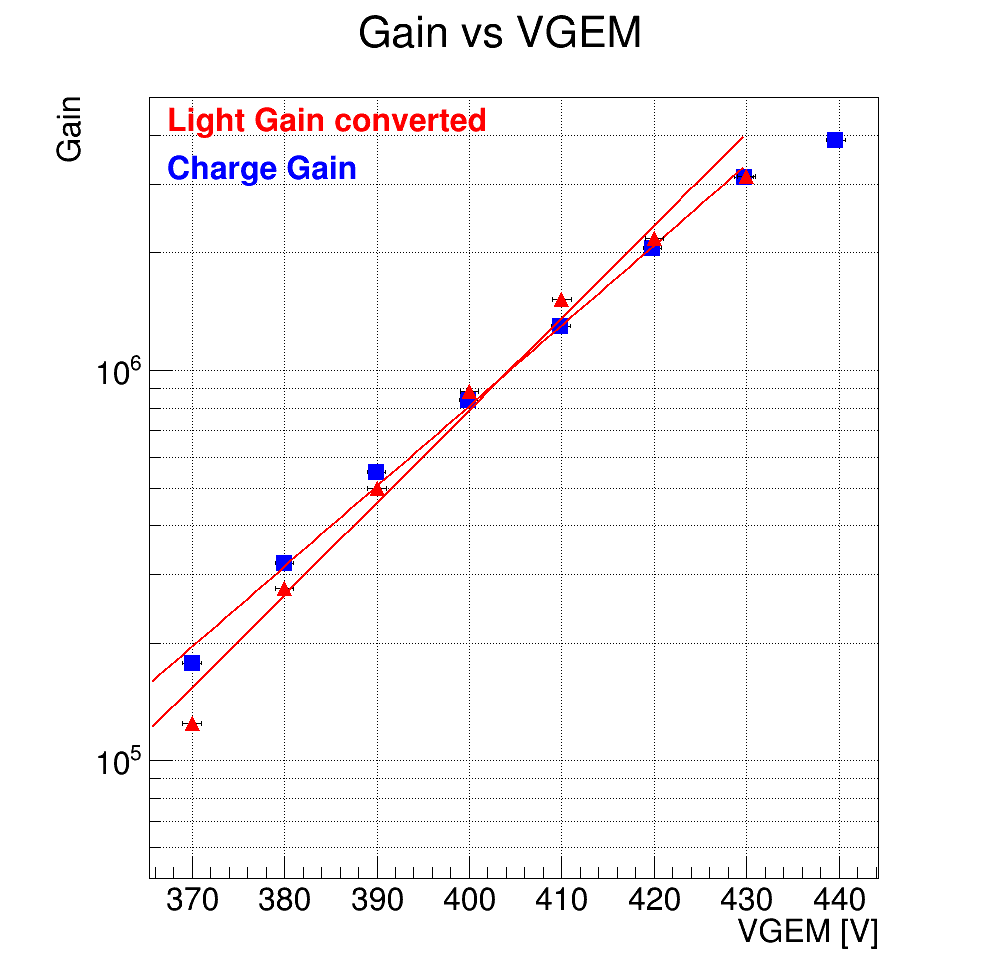
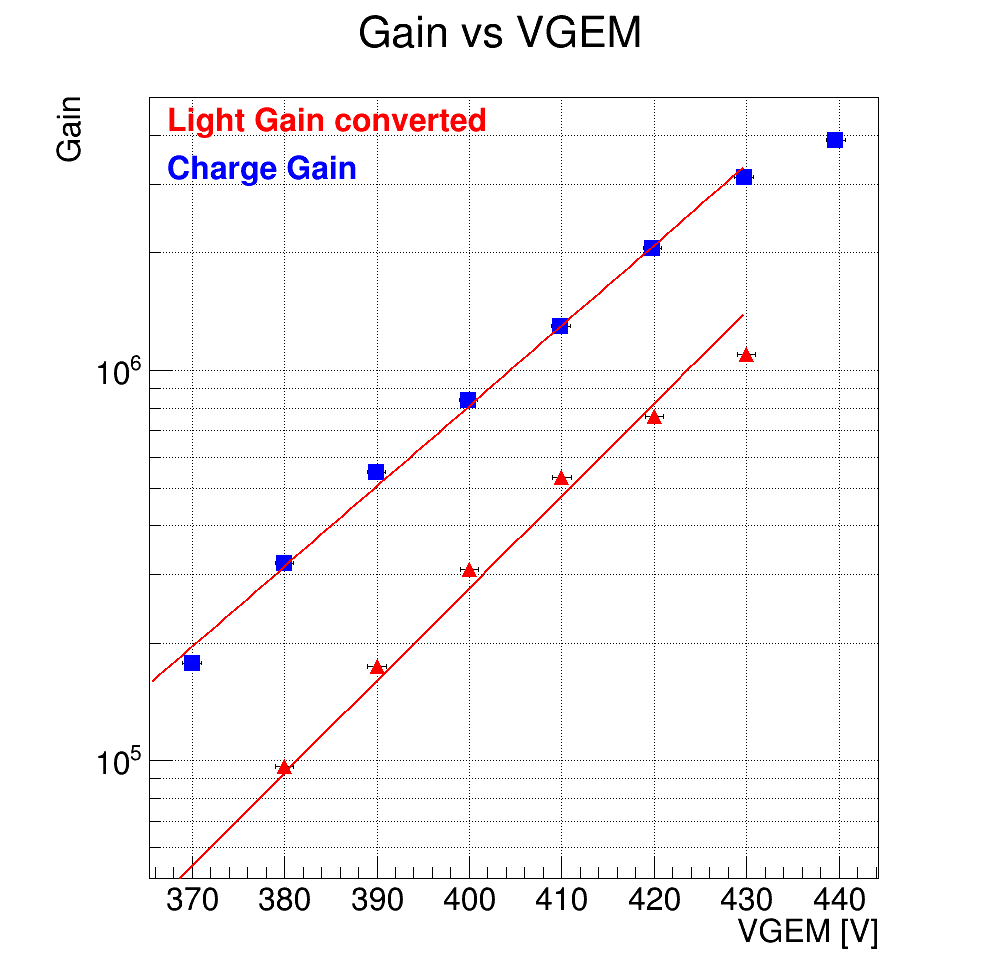
added HFO 1%

diff --git a/gainPico.py b/gainPico.py
@@ -20,8 +20,11 @@ e=1.6E-19
 # Set up argument parser
 parser = argparse.ArgumentParser(description="Process and plot data from files.")
 parser.add_argument('--plot', action='store_true', help="Activate plotting of second column data")
+parser.add_argument('--hfo_qnt', type=str, help="HFO quantity in the chamber",default=0)
 
 args = parser.parse_args()
+
+hfo_qnt=args.hfo_qnt
 
 def grapherr(x,y,ex,ey,x_string, y_string,name=None, color=4, markerstyle=22, markersize=2,write=True):
     plot = ROOT.TGraphErrors(len(x),  np.array(x  ,dtype="d"),  np.array(y  ,dtype="d"),  np.array(ex  ,dtype="d")  ,   np.array(ey  ,dtype="d") )
@@ -35,11 +38,12 @@ def grapherr(x,y,ex,ey,x_string, y_string,name=None, color=4, markerstyle=22, ma
     if write==True: plot.Write()
     return plot
 
-
 def read_second_column(filename):
     # Read only the second column (index 1) from the file
     second_column = np.loadtxt(filename, usecols=1)
-    return second_column
+    # Remove any NaN values from the array
+    filtered_column = second_column[~np.isnan(second_column)]
+    return filtered_column
 
 def plot_second_column(filename):
     # Load the second column from the file (index 1)
@@ -64,7 +68,7 @@ def get_vgem_number(filename):
     else:
         return None
 
-data_dir = "picoammeter_Data/"
+data_dir = f"picoammeter_Data/HFO_{hfo_qnt}/"
 
 # Iterate over each file in the specified directory if plotting is activated
 if args.plot:
@@ -77,7 +81,7 @@ if args.plot:
         # Plot the data using the provided plotting function
         plot_second_column(file_path)
 
-        print(f"File: {filename}")
+        print(f"File: {file_path}")
 
 def plot_tgrapherrors(gr, output_filename="output.png",setLog=False,setGrid=True, pavetext=None):
     # Create a canvas with a specified title and dimensions.
@@ -226,7 +230,7 @@ pavetext.SetFillColorAlpha(ROOT.kWhite, 0)  # Fully transparent fill color
 pavetext.SetTextAlign(12)
 
 
-plot_tgrapherrors(gainPlot, "GainPico_HeCF4.png", setLog=True, setGrid=True, pavetext=pavetext)
+plot_tgrapherrors(gainPlot, f"GainPico_HeCF4HFO_{hfo_qnt}.png", setLog=True, setGrid=True, pavetext=pavetext)
 
 #! gain corrected
 
@@ -249,38 +253,40 @@ pavetext.AddText("#color[2]{1M#Omega resistor, no correction on VGEM}")
 #pavetext.AddText("#color[4]{33M#Omega resistor VGEM corrected}")
 pavetext.AddText("#color[4]{1M#Omega resistor VGEM corrected}")
 
-#! test point
-noise_mega_curr=read_second_column("picoammeter_Data/BKG_HFO_0_VGEM430_1_MOhm.txt")
-source_mega_curr=read_second_column("picoammeter_Data/SOURCE_HFO_0_VGEM430_1_MOhm.txt")
-new_rate=9.5E3
-err_new_rate=0.5E3
+if hfo_qnt==0:
 
-# Calculate the mean and standard error of the mean
-mean_noise_mega_curr = np.mean(noise_mega_curr)
-mean_source_mega_curr = np.mean(source_mega_curr)
-mean_noise_error = np.std(noise_mega_curr) / np.sqrt(len(noise_mega_curr))
-mean_source_error = np.std(source_mega_curr) / np.sqrt(len(source_mega_curr))
+    #! test point
+    noise_mega_curr=read_second_column("picoammeter_Data/HFO_0/BKG_HFO_0_VGEM430_1_MOhm.txt")
+    source_mega_curr=read_second_column("picoammeter_Data/HFO_0/SOURCE_HFO_0_VGEM430_1_MOhm.txt")
+    new_rate=9.5E3
+    err_new_rate=0.5E3
 
-# Calculate the net current and error
-net_curr = mean_source_mega_curr - mean_noise_mega_curr
-net_curr_error = np.sqrt(mean_source_error**2 + mean_noise_error**2)
+    # Calculate the mean and standard error of the mean
+    mean_noise_mega_curr = np.mean(noise_mega_curr)
+    mean_source_mega_curr = np.mean(source_mega_curr)
+    mean_noise_error = np.std(noise_mega_curr) / np.sqrt(len(noise_mega_curr))
+    mean_source_error = np.std(source_mega_curr) / np.sqrt(len(source_mega_curr))
 
-# Calculate the gain
-gain = abs(net_curr) / (new_rate * e*n0)
-gain_error = gain*np.sqrt((net_curr_error/net_curr)**2 + (err_new_rate/new_rate)**2)
+    # Calculate the net current and error
+    net_curr = mean_source_mega_curr - mean_noise_mega_curr
+    net_curr_error = np.sqrt(mean_source_error**2 + mean_noise_error**2)
 
-print("Gain 1Mega 430V: ", gain, "+/-", gain_error)
+    # Calculate the gain
+    gain = abs(net_curr) / (new_rate * e*n0)
+    gain_error = gain*np.sqrt((net_curr_error/net_curr)**2 + (err_new_rate/new_rate)**2)
 
-new_tgraph=grapherr([430], [gain], [1], [gain_error], "VGEM [V]", "Gain", "Gain vs VGEM no voltage drop", write=True,markerstyle=20, color=2)
+    print("Gain 1Mega 430V: ", gain, "+/-", gain_error)
 
-mulitgraph=ROOT.TMultiGraph()
+    new_tgraph=grapherr([430], [gain], [1], [gain_error], "VGEM [V]", "Gain", "Gain vs VGEM no voltage drop", write=True,markerstyle=20, color=2)
 
-mulitgraph.Add(gainPlot)
-mulitgraph.Add(new_tgraph)
+    mulitgraph=ROOT.TMultiGraph()
 
-mulitgraph.SetNameTitle("Gain vs VGEM","Gain vs VGEM")
-mulitgraph.GetXaxis().SetTitle("VGEM [V]")
-mulitgraph.GetYaxis().SetTitle("Gain")
-mulitgraph.GetYaxis().SetRangeUser(1E5, 5E6)
+    mulitgraph.Add(gainPlot)
+    mulitgraph.Add(new_tgraph)
 
-plot_tgrapherrors(mulitgraph, "GainPico_corr_HeCF4.png", setLog=True, setGrid=True, pavetext=pavetext)
+    mulitgraph.SetNameTitle("Gain vs VGEM","Gain vs VGEM")
+    mulitgraph.GetXaxis().SetTitle("VGEM [V]")
+    mulitgraph.GetYaxis().SetTitle("Gain")
+    mulitgraph.GetYaxis().SetRangeUser(1E5, 5E6)
+
+    plot_tgrapherrors(mulitgraph, "GainPico_corr_HeCF4.png", setLog=True, setGrid=True, pavetext=pavetext)

diff --git a/chargeGainfromQUEST.py b/chargeGainfromQUEST.py
@@ -8,7 +8,7 @@ def intTOgain(integral):
     lightFraction=0.07# gamma/e- only visible light
     #omega=9.2E-4#solid angle fraction LIME
     omega=1.16E-3#solid angle fraction QUEST MANGO
-    QE=0.35#QE @ 650nm
+    QE=1#QE @ 650nm
     n0=168#stima Fe55
     return (integral*conversionFactor)/(lightFraction*omega*QE*n0)
 
